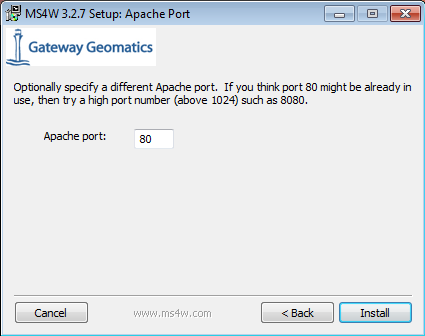
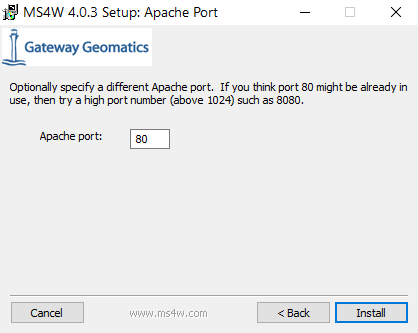
update quickstart) docs\

Changed region(s): [[0.0, 0.0, 1.0, 1.0], [0.311, 0.3604, 0.4043, 0.4505], [0.0933, 0.3904, 0.2488, 0.4204]]

diff --git a/docs/ms4w-quickstart/index.md b/docs/ms4w-quickstart/index.md
@@ -2,28 +2,46 @@
 
 Requirements:
 
- * A computer running Windows 7 or newer.
+ * A computer running Windows 7 or newer (Windows 10 is recommended).
  * Download the latest copy of MS4W.  [Download Here.](https://ms4w.com)
  * Download the latest copy of the GeoMoose Demo Data. [Download Here.](https://www.geomoose.org/downloads/gm3-demo-data-3.3.0-ms4w.zip)
  * Download the latest version of the GeoMoose MS4W Package [Download Here.](https://www.geomoose.org/downloads/gm3-examples-3.3.0-ms4w.zip)
 
-## Install MapServer for Windows
+## Background
 
-MapServer for Windows will install the base files required by GeoMoose along with an Apache service to actually serve GeoMoose. Once installed, navigate to localhost for more detail  Also, full description of optional packages in the installer are found on ms4w.com.
+The MS4W (MapServer for Windows) setup.exe installer includes an option to install GeoMoose (software and
+demo data) through the installer (this is Option1 below).  The [MS4W download](https://ms4w.com/download.html#applications-packaged-for-ms4w) 
+page also allows MS4W users who already have MS4W installed, to download a single GeoMoose package that 
+includes both software and demo data (this is Option2 below).  As well, the official [GeoMoose homepage](https://www.geomoose.org/download.html) 
+has a separate MS4W package available for download, where one contains the software and the other contains 
+the demo data (this is Option3 below). 
+
+## Option 1: Install MapServer for Windows + GeoMoose using installer :+1:
+
+MS4W will install the base files required by GeoMoose along with an Apache service to actually serve GeoMoose, and
+you can select GeoMoose inside the installer to install GeoMoose software and demo data (see image below). 
+Once installed, navigate to http://127.0.0.1 and look for a "GeoMoose" section near the bottom of the page.
+You can find a full description of the optional packages listed in the installer on [ms4w.com](https://www.geomoose.org/download.html).
 
 ![ms4w setup screen 1](ms4w-setup-1.png)
 
-MapServer for Windows may occasionally come with an older version of GeoMoose, so our Quickstart steps here will skip the GeoMoose option in the MS4W installer, and instead manually install the latest and greatest version for the full Moose experience.
+*MS4W may occasionally come with an older version of GeoMoose, in which case you can head to Option3 below to manually 
+install the latest and greatest version for the full Moose experience.
 
-The MapServer for Windows installer will prompt for a path. GeoMoose is set up and expects to run from the default path (C:\ms4w\apps\gm3\htdocs\ ), so please leave it set to C:\.  This will also make all future updates and enhancements to the application simpler.
+The MS4W installer will prompt for a path. GeoMoose is set up and expects to run from the default path (`C:\ms4w\apps\gm3\htdocs\`), 
+so please leave it set to `C:\`.  This will also make all future updates and enhancements to the 
+application simpler.
 
 ![ms4w setup screen 2](ms4w-setup-2.png)
 
-Lastly, MapServer for Windows will ask to specify the Apache port. There is no reason to change this unless port 80 is already in use. Also, if you install another web service in the future that uses port 80, you may want to reconfigure it to run a different port.
+Lastly, MS4W will ask to specify the Apache port. There is no reason to change this unless port 80 is 
+already in use. Also, if you install another web service in the future that uses port 80, you may want 
+to reconfigure it to run a different port.
 
 ![ms4w setup screen 3](ms4w-setup-3.png)
 
-You can validate the ms4w installation by navigating to localhost, where you will be greeted by the MS4W MapServer introduction and features.
+You can validate the MS4W installation by navigating to localhost (http://127.0.0.1), where you will 
+be greeted by the MS4W introduction and features.
 
 ![working ms4w](ms4w-success.png)
 
